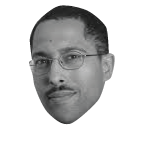
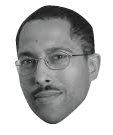
faces added

Changed region(s): [[0.1327, 0.0296, 0.9027, 0.9185], [0.3451, 0.0889, 0.6637, 0.2667]]

diff --git a/popup/library.html b/popup/library.html
@@ -37,7 +37,7 @@
 			background-color: #1b4b99;
 		}
 
-		
+
 	</style>
 
 </head>
@@ -57,32 +57,32 @@
 		<img class="face" src="../assets/amygsad.png" alt="Sad Amy G">
 	</div>
 	<div class="column">
-  		<img class="face" src="../assets/camillohappy.png" alt="Happy CJ">
+  		<img class="face" src="../assets/camillohappybig.png" alt="Happy CJ">
 	</div>
 	<div class="column">
-		<img class="face" src="../assets/camillohappy.png" alt="Pensive CJ">
-	</div>
-</div>
-<div class="row">
-	<div class="column">
-  		<img class="face" src="../assets/rajivhappy.png" alt="Happy Rajiv">
-	</div>
-	<div class="column">
-		<img class="face" src="../assets/rajivconfused.png" alt="Confused Rajiv">
-	</div>
-	<div class="column">
-  		<img class="face" src="../assets/sanjeevhappy.png" alt="Happy Sanjeev">
-	</div>
-	<div class="column">
-		<img class="face" src="../assets/sanjeevyoung.png" alt="Yung Sanjeev">
+		<img class="face" src="../assets/camillopensivebig.png" alt="Pensive CJ">
 	</div>
 </div>
 <div class="row">
 	<div class="column">
-  		<img class="face" src="../assets/stephhappy.png" alt="Happy Stephanie">
+  		<img class="face" src="../assets/rajivhappybig.png" alt="Happy Rajiv">
 	</div>
 	<div class="column">
-		<img class="face" src="../assets/stephawk.png" alt="Happy Stephanie 2">
+		<img class="face" src="../assets/rajivconfusedbig.png" alt="Confused Rajiv">
+	</div>
+	<div class="column">
+  		<img class="face" src="../assets/sanjeevhappybig.png" alt="Happy Sanjeev">
+	</div>
+	<div class="column">
+		<img class="face" src="../assets/sanjeevyoungbig.png" alt="Yung Sanjeev">
+	</div>
+</div>
+<div class="row">
+	<div class="column">
+  		<img class="face" src="../assets/stephhappybig.png" alt="Happy Stephanie">
+	</div>
+	<div class="column">
+		<img class="face" src="../assets/stephawkbig.png" alt="Happy Stephanie 2">
 	</div>
 </div>
 
